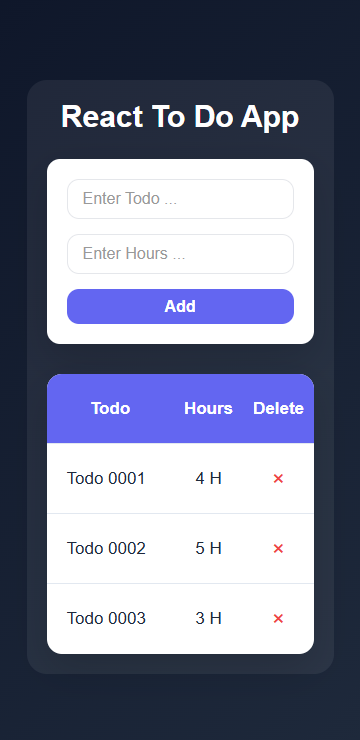
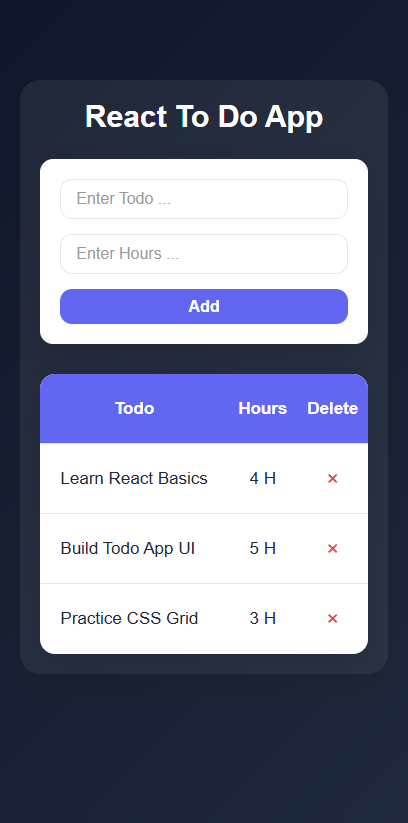
Update state

diff --git a/src/App.js b/src/App.js
@@ -6,11 +6,22 @@ import './App.css';
 class App extends Component {
   state = {
     items : [
-      {id:1, name:"Todo 0001", hours:'4 H'},
-      {id:2, name:"Todo 0002", hours:'5 H'},
-      {id:3, name:"Todo 0003", hours:'3 H'}
+      {id:1, name:"Learn React Basics", hours:'4', completed: false},
+      {id:2, name:"Build Todo App UI", hours:'5', completed: false},
+      {id:3, name:"Practice CSS Grid", hours:'3', completed: false}
     ],
   }
+
+  toggleComplete = (id) => {
+    const items = this.state.items.map(item => {
+      if (item.id === id) {
+        return { ...item, completed: !item.completed }
+      }
+      return item;
+    });
+
+    this.setState({ items });
+  };
 
   deleteItems = (id) => {
     let items = this.state.items.filter(item => item.id !== id)
@@ -22,7 +33,7 @@ class App extends Component {
     // item.id = `${Date.now()}-${Math.random()}`
     item.id = crypto.randomUUID()
     let items = this.state.items
-    items.push({...item, hours: item.hours + ' H'})
+    items.push({...item, hours: item.hours})
     this.setState({items})
   }
 
@@ -31,7 +42,7 @@ class App extends Component {
       <div className="App">
         <h1>React To Do App</h1>
         <AddItems AddItem={this.AddItem}/>
-        <TodoItems items={this.state.items} deleteItems={this.deleteItems}/>
+        <TodoItems items={this.state.items} toggleComplete={this.toggleComplete} deleteItems={this.deleteItems}/>
       </div>
     )
   }

diff --git a/src/Components/TodoItems.js b/src/Components/TodoItems.js
@@ -1,13 +1,13 @@
 import './TodoItems.css';
 
 const TodoItems = (props) => {
-  const {items, deleteItems} = props;
+  const {items, toggleComplete, deleteItems} = props;
   let length = items.length;
   const ListItems = items.map(item => {
     return (
-      <div key={item.id} className="row">
+      <div key={item.id} className={item.completed ? "completed row" : "row"}  onClick={() => toggleComplete(item.id)}>
         <span className="name">{item.name}</span>
-        <span className="age">{item.hours}</span>
+        <span className="age">{item.hours} H</span>
         <span className="action icon" onClick={() => deleteItems(item.id)}>&times;</span>
       </div>
     )

diff --git a/public/index.html b/public/index.html
@@ -9,7 +9,7 @@
       name="description"
       content="Web site created using create-react-app"
     />
-    <link rel="apple-touch-icon" href="%PUBLIC_URL%/logo192.png" />
+    <link rel="apple-touch-icon" href="%PUBLIC_URL%/logo.png" />
     <!--
       manifest.json provides metadata used when your web app is installed on a
       user's mobile device or desktop. See https://developers.google.com/web/fundamentals/web-app-manifest/

diff --git a/src/Components/TodoItems.css b/src/Components/TodoItems.css
@@ -19,6 +19,10 @@
     font-weight: bold;
     height: 100%;
 }
+.ListItems .completed .name {
+  text-decoration: line-through;
+  opacity: 0.6;
+}
 .ListItems .age {
   text-align: center;
 }

diff --git a/README.md b/README.md
@@ -4,17 +4,18 @@ A simple and responsive Todo application built with React. Users can add tasks, 
 
 ## 🚀 Live Demo
 
-🔗 **Demo**: [https://alexander-sands.github.io/Leon/](https://your-demo-link.vercel.app) 
+🔗 **Demo**: [https://alx-react-to-do-app.vercel.app/](https://alx-react-to-do-app.vercel.app/) 
 
 ---
 
 ## ✨ Features
 
-* Add new tasks.
-* Assign estimated hours to tasks.
-* Delete tasks.
-* Responsive layout for desktop and mobile devices.
-* Unique task IDs generated using `crypto.randomUUID()`.
+- Add new tasks
+- Delete tasks
+- Track estimated hours
+- Mark tasks as completed / not completed
+- Responsive design
+- Unique task IDs generated using `crypto.randomUUID()`.
 
 ---
 
@@ -104,15 +105,13 @@ http://localhost:3000
 
 Click the delete button beside any task to remove it instantly.
 
----
+### Task Completion
 
-##  📊 Sample Data
+Each task has a completion status:
 
-| Task      | Hours |
-| --------- | ----- |
-| Todo 0001 | 4 H   |
-| Todo 0002 | 5 H   |
-| Todo 0003 | 3 H   |
+- Click on a task or button to mark it as completed
+- Completed tasks are visually highlighted
+- Tasks can be toggled between done and not done
 
 ---
 
@@ -129,4 +128,4 @@ Click the delete button beside any task to remove it instantly.
 
 ## 👤 Author
 
-Developed as a React practice project and portfolio showcase.
+Developed by AbdelRahman Khalaf as part of a continuous journey in modern front-end development and React application architecture.
